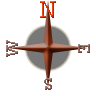
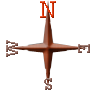
Added Sundial
Added a sundial in behind the compass that rotates with the day/night
cycle ingame

Changed region(s): [[0.25, 0.2188, 0.7812, 0.7812]]

diff --git a/SWEN222 ECS Wars/src/gui/Sundial.java b/SWEN222 ECS Wars/src/gui/Sundial.java
@@ -1,0 +1,109 @@
+package gui;
+
+import java.awt.Image;
+import java.awt.geom.AffineTransform;
+import java.awt.image.AffineTransformOp;
+import java.awt.image.BufferedImage;
+import java.io.File;
+import java.io.IOException;
+
+import javax.imageio.ImageIO;
+
+/**
+ * A UI component which displays the progress of the day/night cycle.
+ * 
+ * @author Chris Read 300254724
+ * @author Sarah Dobie 300315033
+ */
+public class Sundial {
+	
+	BufferedImage sundialImage;
+	BufferedImage largeImage;
+	BufferedImage scaledSundial;
+	BufferedImage rotated;
+	double rot; // the current rotation angle
+	double targetRot; // the target rotation angle
+
+	/**
+	 * Constructor for class Sundial.
+	 */
+	public Sundial() {
+		rot = 0;
+		targetRot = 0;
+		loadImages();
+	}
+
+	/**
+	 * Parses and stores all required images.
+	 */
+	private void loadImages() {
+		try {
+			sundialImage = ImageIO.read(new File("Resources"+File.separator+"Sundial.png"));
+			largeImage = ImageIO.read(new File("Resources"+File.separator+"SundialLarge.png"));
+			scaledSundial = sundialImage;
+			rotated = scaledSundial;
+		} catch (IOException e) {
+			System.out.println("Error reading Sundial image: " + e.getMessage());
+		}
+	}
+	
+	/**
+	 * Rotates the sundial clockwise by the given angle.
+	 * @param angle The angle to rotate by
+	 */
+	public void rotate(double angle){
+		targetRot += angle;
+	}
+	
+	/**
+	 * Rotates the sundial image clockwise by the given angle.
+	 * @param angle The angle to rotate by
+	 */
+	private void rotateImage(double angle) {
+		double rotate = Math.toRadians(angle);
+		double locationX = scaledSundial.getWidth(null) / 2;
+		double locationY = scaledSundial.getHeight(null) / 2;
+		AffineTransform tx = AffineTransform.getRotateInstance(rotate, locationX, locationY);
+		AffineTransformOp op = new AffineTransformOp(tx, AffineTransformOp.TYPE_BILINEAR);
+		
+		rotated = op.filter(scaledSundial, null);
+	}
+	
+	/**
+	 * Returns the current sundial image.
+	 * @return The current sundial image
+	 */
+	public Image getImage(){
+		return rotated;
+	}
+	
+	/**
+	 * Scales the sundial image according to the given scale.
+	 * @param scale The scale (1 or 2) to use
+	 * @param c The canvas the sundial will be drawn on
+	 */
+	public void scaleImage(int scale, GUICanvas c){
+		// if the new scale is 1, use the original image size
+		if (scale == 1){
+			scaledSundial = sundialImage;
+			rotated = scaledSundial;
+			return;
+		} else {
+			scaledSundial = largeImage;
+			rotated = scaledSundial;
+		}
+	}
+
+	/**
+	 * Updates the image to the next frame in its animation.
+	 */
+	public void update() {
+		if (rot == targetRot){
+			return;
+		}
+		double rotateAngle = (targetRot-rot)*0.01;
+		rot += rotateAngle;
+		rotateImage(rot);
+	}
+
+}

diff --git a/SWEN222 ECS Wars/src/gui/GUICanvas.java b/SWEN222 ECS Wars/src/gui/GUICanvas.java
@@ -43,6 +43,7 @@ public class GUICanvas extends JComponent{
 	
 	private Player player; // the current player
 	private Compass compass; // the compass being displayed
+	private Sundial sundial; // the sundial being displayed
 	private Container currentContainer;
 	
 	private String toolTip; // current tooltip text
@@ -60,7 +61,7 @@ public class GUICanvas extends JComponent{
 	private WinnerMenu winnerMenu; // the winner menu to display
 	
 	private boolean isNight; // true if it is currently night time
-	private float dayNightRotation = 0;
+	private double dayNightRotation = 0;
 	
 	// Static UI Images
 	private Image[] torchLight;
@@ -91,6 +92,8 @@ public class GUICanvas extends JComponent{
 	public GUICanvas(GUIFrame frame){
 		this.frame = frame;
 		this.compass = new Compass();
+		this.sundial = new Sundial();
+		this.dayNightRotation = (180/Controller.DAY_LENGTH);
 		this.toolTip = null;
 				
 		torchLight = new Image[4];
@@ -206,7 +209,11 @@ public class GUICanvas extends JComponent{
 			drawDarknessOverlay(r, g);
 		}
 		
-		// Draw compass
+		// Draw Sundial
+		sundial.update();
+		g.drawImage(sundial.getImage(), getWidth()-(96*viewScale)-20, 20, this);
+		
+		// Draw Compass
 		compass.update();
 		g.drawImage(compass.getImage(), getWidth()-(96*viewScale)-20, 20, this);
 		g.drawImage(scaledCompassCont, getWidth()-(96*viewScale)-20, 20, this);
@@ -460,6 +467,7 @@ public class GUICanvas extends JComponent{
 		scaledCompassCont = compassControls.getScaledInstance(compassControls.getWidth(this)*viewScale, 
 				compassControls.getHeight(this)*viewScale, Image.SCALE_FAST);
 		compass.scaleImage(viewScale, this);
+		sundial.scaleImage(viewScale, this);
 		// scale health bar
 		scaledHealthBack = healthInventBack.getScaledInstance(healthInventBack.getWidth(this)*viewScale, 
 				healthInventBack.getHeight(this)*viewScale, Image.SCALE_FAST);
@@ -692,10 +700,9 @@ public class GUICanvas extends JComponent{
 	public void setTime(int time) {
 		int dayLength = Controller.DAY_LENGTH;
 		int localTime = time%dayLength;
-		System.out.println(localTime);
 		if (localTime == 0){
 			toggleNight();
 		}
-		dayNightRotation = (360/dayLength)*localTime;
+		sundial.rotate(dayNightRotation);
 	}
 }
